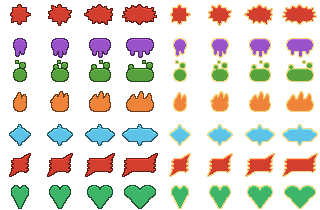
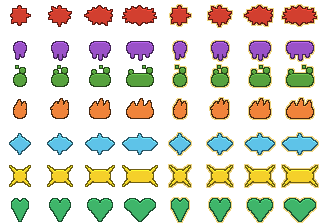
feat(splats): finalized — a yellow spark for energy, crits ringed, splats above the head
His rulings from exact-frame screenshots at 3440x1440:

- Energy is a spark: four thin rays off the corners (over a torn-flag zap,
  a bolt that read as a pipe, and a saw-toothed edge that read as a cog).
- Energy is yellow, #f5d02a — ruling EC closed. White digits on yellow
  measured 1.4-1.9:1, so energy's digits are dark (#2a1f06, 10.75:1). A
  test requires dark digits on any fill under 1.8:1 against white.
- A crit is a gold ring outside the dark outline, on every type: the gold
  outline it replaced vanished on yellow (1.0-1.3:1).
- Fire flickers between 75% and full (was down to 20%), with a darker
  outline so it holds on the desert ground.
- Splats sit above the head and every group grows upward from there, so a
  face is never covered.

Known, asked: on enemies the raised splats land on the HP bar and emote
balloon.

Sheet cells are 32 px tall now, for the crit ring. Tests: groups grow
upward, compass arrangement, dark digits on light fills; two mutations
each fail them. 1800 tests / 317 suites / 0; balance and autoplay goldens
no drift; no console errors in headless Chrome.

diff --git a/game/renderer.js b/game/renderer.js
@@ -63,25 +63,29 @@ const clamp01 = (v) => Math.max(0, Math.min(1, v));
 // throw prompt are not menus: they draw at their own screen positions.
 const MENU_BOX_STATES = new Set(['item_overlay', 'target_list', 'log_modal', 'trade', 'dialogue', 'inspect', 'device']);
 
-// (combat-feel-pass) Hit-splat fill colors by damage type. Crit keeps the
-// physical fill but takes a gold border (handled in _drawHitSplat).
+// (combat-feel-pass) Hit-splat fill colors by damage type. A crit keeps its
+// type's fill and takes a gold ring outside its outline (tools/gen_splats.py
+// bakes these into the splat atlas, reading this table).
 //
 // There is no 'miss' entry and there must not be one: combat.js resolves over
 // flat damage with no roll, so a miss is not a thing this game can produce
 // (README: "no dice, no misses"). It carried a blue here for a while anyway.
 //
-// 'energy' has no entry yet either, but that one IS a gap rather than a rule —
-// a Ray Blast currently falls back to the physical red. See
-// plans/hit-splat-art.md; it wants a colour picked by eye, which is why it
-// wasn't picked here.
+// 'energy' is yellow — ruling EC, 2026-09-30 (plans/hit-splat-art.md §10).
 const SPLAT_COLOR = {
     physical: '#d23f2f',
     sludge:   '#9a52c8',
     poison:   '#57a23e',
     fire:     '#f0833a',
     cold:     '#5ec3e8',
+    energy:   '#f5d02a',
     heal:     '#3fb56a',
 };
+
+// Digits are white on every splat but the ones too light to carry white: on
+// energy's yellow, white measured 1.27-1.9:1 (hit-splat-art.md §9-10), so its
+// digits are dark, with a light shadow.
+const SPLAT_TEXT = { energy: { color: '#2a1f06', shadow: '255,240,200' } };
 
 // ── Procedural character walk/idle animation (plans/movement-feel.md) ─────────
 // The Tiny Dungeon / Kenney sheets have ONE static front-facing pose per
@@ -1753,7 +1757,9 @@ export class Renderer {
 
         // Tile → screen (camera-tracked), then the per-type motion offset.
         const bx = vp.origin.x + (dn.tileX - game.playerX) * TILE_PX + TILE_PX / 2 - this._scrollX;
-        const by = vp.origin.y + (dn.tileY - game.playerY) * TILE_PX + TILE_PX / 4 - this._scrollY;
+        // Anchored above the head, not over the face: groups grow upward from here
+        // (splat-layout.js keeps every layout's lowest spot on this line).
+        const by = vp.origin.y + (dn.tileY - game.playerY) * TILE_PX - TILE_PX / 4 - this._scrollY;
         // Its spot among the splats on this target (laid out in _drawDamageNumbers),
         // then the small per-type wiggle — splats no longer fly, so they never
         // land on each other.
@@ -1813,13 +1819,15 @@ export class Renderer {
             ctx.stroke();
         }
 
-        // Number — white, centered, with a soft shadow for contrast.
+        // Number — white (dark on a fill too light for white), centered, with a
+        // soft shadow for contrast.
         if (this.font) {
+            const tc = SPLAT_TEXT[dn.type];
             this.font.drawText(ctx, dn.text, 0, -4, {
-                color: hexToRgba('#ffffff', a),
+                color: hexToRgba(tc ? tc.color : '#ffffff', a),
                 scale,
                 align: 'center',
-                shadow: `rgba(0,0,0,${a * 0.7})`,
+                shadow: tc ? `rgba(${tc.shadow},${a * 0.6})` : `rgba(0,0,0,${a * 0.7})`,
             });
         }
 
@@ -1877,7 +1885,8 @@ export class Renderer {
                 ox = Math.sin(age * 0.05) * 1.5 * k;
                 break;
             case 'fire':                                  // flicker + burn down
-                alpha *= 0.6 + 0.4 * Math.sin(age * 0.045);
+                // Flickers between 75% and full — never fades out mid-fight.
+                alpha *= 0.875 + 0.125 * Math.sin(age * 0.045);
                 scale = (p < 0.14 ? 0.7 + 0.3 * (p / 0.14) : 1) * (1 - 0.25 * p * k);
                 oy = -2 * e * k;
                 break;

diff --git a/game/splat-layout.js b/game/splat-layout.js
@@ -13,7 +13,9 @@
 export const SPLAT_H = 12;          // pill height, px — the 12px VT323 line
 export const SPLAT_PAD_X = 3;       // px between the number and the pill's ends
 
-// Spots by how many splats are showing, in the order they arrived. Spaced so no
+// Spots by how many splats are showing, in the order they arrived. Every layout's
+// lowest spot sits on the anchor line (y 0), which the renderer puts above the
+// target's head, so a group grows UPWARD and never covers the face. Spaced so no
 // two resting pills touch, crits included, up to four characters ("-999") — the
 // invariant tests/cascade.test.js pins — with a few px to spare, because each
 // type's silhouette (flames, drips, bubbles, spikes) reaches past its body. (The
@@ -22,9 +24,9 @@ export const SPLAT_PAD_X = 3;       // px between the number and the pill's ends
 export const SPLAT_LAYOUTS = [
     [],
     [{ x: 0, y: 0 }],                                                    // centre
-    [{ x: 0, y: -10 }, { x: 0, y: 10 }],                                 // stacked
-    [{ x: 0, y: -11 }, { x: -18, y: 10 }, { x: 18, y: 10 }],             // triangle
-    [{ x: 0, y: -19 }, { x: 19, y: 0 }, { x: 0, y: 19 }, { x: -19, y: 0 }], // N, E, S, W
+    [{ x: 0, y: -20 }, { x: 0, y: 0 }],                                  // stacked
+    [{ x: 0, y: -21 }, { x: -18, y: 0 }, { x: 18, y: 0 }],               // triangle
+    [{ x: 0, y: -38 }, { x: 19, y: -19 }, { x: 0, y: 0 }, { x: -19, y: -19 }], // N, E, S, W
 ];
 
 // The spot for the `index`-th of `count` splats showing on one target.
@@ -75,7 +77,7 @@ export function glideToward(current, target, dtMs, tau = SPLAT_GLIDE_MS) {
 // tests/splat-sheet.test.js pins them.
 export const SPLAT_ROWS = { physical: 0, sludge: 1, poison: 2, fire: 3, cold: 4, energy: 5, heal: 6 };
 export const SPLAT_CELL_W = 40;
-export const SPLAT_CELL_H = 30;
+export const SPLAT_CELL_H = 32;
 export const SPLAT_BODY_W = [12, 16, 20, 26];   // the digit-holding body, by length 1..4
 
 // Which cell draws a splat of `type` whose text is `len` characters long.

diff --git a/tests/splat-sheet.test.js b/tests/splat-sheet.test.js
@@ -49,6 +49,24 @@ describe('the splat atlas matches the code that reads it', () => {
         for (const t of coloured) assert.ok(t in SPLAT_ROWS, `${t} has a colour but no splat row`);
     });
 
+    test('a fill too light to carry white digits gets dark ones', () => {
+        // White on energy's yellow measured 1.27-1.9:1 (hit-splat-art.md §9-10) —
+        // unreadable. The other fills sit at ~2-5:1, where the dark shadow carries
+        // white. So any fill under 1.8:1 against white must be in SPLAT_TEXT.
+        const lum = (hex) => {
+            const c = [0, 2, 4].map((i) => parseInt(hex.slice(i, i + 2), 16) / 255)
+                .map((v) => (v <= 0.03928 ? v / 12.92 : ((v + 0.055) / 1.055) ** 2.4));
+            return 0.2126 * c[0] + 0.7152 * c[1] + 0.0722 * c[2];
+        };
+        const vsWhite = (hex) => 1.05 / (lum(hex) + 0.05);
+        const colors = Object.fromEntries([.../const SPLAT_COLOR = \{(.*?)\};/s.exec(renderer)[1]
+            .matchAll(/(\w+):\s*'#([0-9a-fA-F]{6})'/g)].map((m) => [m[1], m[2]]));
+        const darkText = /const SPLAT_TEXT = \{(.*?)\};/s.exec(renderer)?.[1] ?? '';
+        const tooLight = Object.keys(colors).filter((t) => vsWhite(colors[t]) < 1.8);
+        assert.ok(tooLight.includes('energy'), 'the fixture really finds the yellow');
+        for (const t of tooLight) assert.match(darkText, new RegExp(`\\b${t}:`), `${t} is too light for white digits`);
+    });
+
     test('the body the digits sit in is the pill the layout keeps apart', () => {
         // The no-overlap invariant (cascade.test.js) is measured on splatPill; the
         // atlas body must be that pill, to the pixel it rounds to.

diff --git a/tests/cascade.test.js b/tests/cascade.test.js
@@ -190,8 +190,18 @@ describe('layoutSplats — one sits centred; more spread out, in the order they 
     test('two stack, the first on top; four take the compass points N, E, S, W', () => {
         const [a, b] = spotsOf([at(5, 5, 0), at(5, 5, 130)]);
         assert.ok(a.y < b.y && a.x === 0 && b.x === 0);
-        const four = spotsOf([at(5, 5, 0), at(5, 5, 1), at(5, 5, 2), at(5, 5, 3)]);
-        assert.deepEqual(four.map(p => [Math.sign(p.x), Math.sign(p.y)]), [[0, -1], [1, 0], [0, 1], [-1, 0]]);
+        const [n, e, s, w] = spotsOf([at(5, 5, 0), at(5, 5, 1), at(5, 5, 2), at(5, 5, 3)]);
+        assert.ok(n.y < e.y && e.y === w.y && w.y < s.y, 'north on top, east and west level, south lowest');
+        assert.ok(w.x < n.x && n.x === s.x && s.x < e.x, 'west left, north and south centred, east right');
+    });
+
+    test('every group grows upward from the anchor: its lowest spot on it, nothing below', () => {
+        // The renderer puts the anchor above the target's head, so this is what
+        // keeps a splat — or a whole group — off the face.
+        for (let count = 1; count <= 4; count++) {
+            const ys = SPLAT_LAYOUTS[count].map(p => p.y);
+            assert.equal(Math.max(...ys), 0, `${count}: lowest spot on the anchor`);
+        }
     });
 
     test('arrival order decides the spot, not list order', () => {

diff --git a/game/sprites.js b/game/sprites.js
@@ -137,7 +137,7 @@ export const SHEETS = {
 
     // Hit-splat badges — our own art, one silhouette per damage type, drawn by
     // tools/gen_splats.py. Rows/columns: splat-layout.js (SPLAT_ROWS, splatCell).
-    splats:       { src: './assets/ui_splats.png', frameW: 40, frameH: 30 },
+    splats:       { src: './assets/ui_splats.png', frameW: 40, frameH: 32 },
 
     // Alias for the hardcoded renderer reference:
     //   • renderer._drawPlayer reads `sprites.player` directly.

diff --git a/tools/gen_splats.py b/tools/gen_splats.py
@@ -17,16 +17,19 @@ renderer draws every cell the same way.
 
     physical  a jagged burst        fire    flames licking up off the top
     sludge    drips hanging below   cold    a pointed ice crystal
-    poison    bubbles rising        energy  a sharp-cornered zap with a bolt
+    poison    bubbles rising        energy  a spark: four thin rays off the corners
     heal      a heart
+
+A crit is the same shape with a gold ring OUTSIDE its dark outline, so it reads
+on any fill — a gold outline in its place vanished on energy's yellow.
 
 All our own art — nothing from a pack. (The Kenney 1-Bit heart the plan named
 is a fixed 16px and cannot hold a three-character heal, so the heart is drawn
 here, sized to the number like the rest.)
 
 Fill colours are read from game/renderer.js SPLAT_COLOR, the one place they
-are defined; a type with no colour there (energy, until ruling EC) takes
-physical's, exactly as the renderer's own fallback does.
+are defined; a type with no colour there takes physical's, exactly as the
+renderer's own fallback does.
 
 Run (needs Pillow):
     python tools/gen_splats.py
@@ -43,9 +46,10 @@ OUT = os.path.join(ROOT, "game", "assets", "ui_splats.png")
 TYPES = ["physical", "sludge", "poison", "fire", "cold", "energy", "heal"]
 BODY_W = [12, 16, 20, 26]      # by character count 1..4: round(n * 4.8) + 6, never under BODY_H
 BODY_H = 12
-CELL_W, CELL_H = 40, 30
+CELL_W, CELL_H = 40, 32
 CX, CY = CELL_W // 2, CELL_H // 2
-GOLD = (240, 215, 130)         # the crit outline — renderer's old gold border, #f0d782
+GOLD = (240, 215, 130)         # the crit ring, outside the dark outline — #f0d782
+OUTLINE = {"fire": 0.30}       # outline shade by type (default 0.45): fire needs more to hold on sand
 
 
 def splat_colors():
@@ -129,14 +133,12 @@ def cold(d, box, bw):
 
 
 def energy(d, box, bw):
+    # A spark: four long thin rays off the corners, like a crackle of static.
+    # (Ruled 2026-09-30 over a torn-flag zap, a bolt and a saw-toothed edge.)
     x0, y0, x1, y1 = box
-    d.rectangle(box, fill=255)                                   # hard corners, no rounding
-    d.polygon([(x1 - 5, y0), (x1 + 4, y0 - 5), (x1, y0 + 3)], fill=255)   # a bolt up and out...
-    d.polygon([(x0 + 5, y1), (x0 - 4, y1 + 5), (x0, y1 - 3)], fill=255)   # ...and down and out
-    for k in range(3):                                           # saw-toothed ends
-        y = y0 + 1 + k * 4
-        d.polygon([(x1, y), (x1 + 2, y + 1), (x1, y + 3)], fill=255)
-        d.polygon([(x0, y), (x0 - 2, y + 1), (x0, y + 3)], fill=255)
+    pill(d, box)
+    for (sx, sy, dx, dy) in [(x0 + 2, y0 + 2, -1, -1), (x1 - 2, y0 + 2, 1, -1), (x0 + 2, y1 - 2, -1, 1), (x1 - 2, y1 - 2, 1, 1)]:
+        d.polygon([(sx - dx * 2, sy), (sx + dx * 6, sy + dy * 6), (sx, sy - dy * 2)], fill=255)
 
 
 def heal(d, box, bw):
@@ -158,15 +160,19 @@ def cell(kind, bw, fill, crit):
     inside = lambda x, y: 0 <= x < CELL_W and 0 <= y < CELL_H and m[x, y] > 0
     out = Image.new("RGBA", (CELL_W, CELL_H), (0, 0, 0, 0))
     px = out.load()
-    edge = GOLD if crit else shade(fill, 0.45)
+    edge = shade(fill, OUTLINE.get(kind, 0.45))
     light = shade(fill, 1.22)
+    near = lambda x, y, test: any(test(x + dx, y + dy) for dx in (-1, 0, 1) for dy in (-1, 0, 1))
+    outline = lambda x, y: not inside(x, y) and near(x, y, inside)
     for y in range(CELL_H):
         for x in range(CELL_W):
             if inside(x, y):
                 # A one-pixel highlight along the top edge, as the HP bar has.
                 px[x, y] = (light if not inside(x, y - 1) else fill) + (255,)
-            elif any(inside(x + dx, y + dy) for dx in (-1, 0, 1) for dy in (-1, 0, 1)):
+            elif outline(x, y):
                 px[x, y] = edge + (255,)            # the outline, outside the shape
+            elif crit and near(x, y, outline):
+                px[x, y] = GOLD + (255,)            # a crit: a gold ring outside that
     return out
 
 

diff --git a/plans/hit-splat-art.md b/plans/hit-splat-art.md
@@ -316,5 +316,20 @@ scaling would smear pixel art. The spots were opened a few px (compass ±19) bec
 past their bodies. `tests/splat-sheet.test.js` pins generator and game to the same rows, widths and
 cell size.
 
-**For his eyes:** the zap reads a little like a flag; fire's flicker makes it faint on some frames; and
-`cold` finally has a shape, though still no motion of its own (§7).
+**Finalized 2026-09-30,** from exact-frame screenshots at his 3440×1440 (a tile is 64 px there):
+
+- **Energy is a spark** — four thin rays off the corners — chosen over the torn-flag zap, a bolt (it
+  read as a pipe) and a saw-toothed edge (it read as a cog).
+- **Energy is yellow, `#f5d02a` — ruling EC closed.** His pick over the indigo recommendation. White
+  digits on any yellow measured 1.4-1.9:1, so energy's digits are dark (`#2a1f06`, 10.75:1) —
+  `SPLAT_TEXT` in `renderer.js`; `tests/splat-sheet.test.js` requires dark digits on any fill under
+  1.8:1 against white. `#f5d02a` is the candidate furthest from fire's orange (hue 49° vs 24°).
+- **A crit is a gold ring outside the dark outline,** on every type. The gold outline it replaced
+  measured 1.0-1.3:1 against yellow and vanished.
+- **Fire flickers between 75% and full,** no longer down to 20%, and has a darker outline to hold on
+  the desert ground. Seen at 75% it still visibly dims — a pulse, not a steady flame.
+- **Splats sit above the head,** and every group grows upward from there (each layout's lowest spot on
+  the anchor), so a face is never covered. On the player that is clean. **On enemies it lands on
+  their HP bar and emote balloon** — open question, asked 2026-09-30.
+
+`cold` has a shape now, though still no motion of its own (§7).
